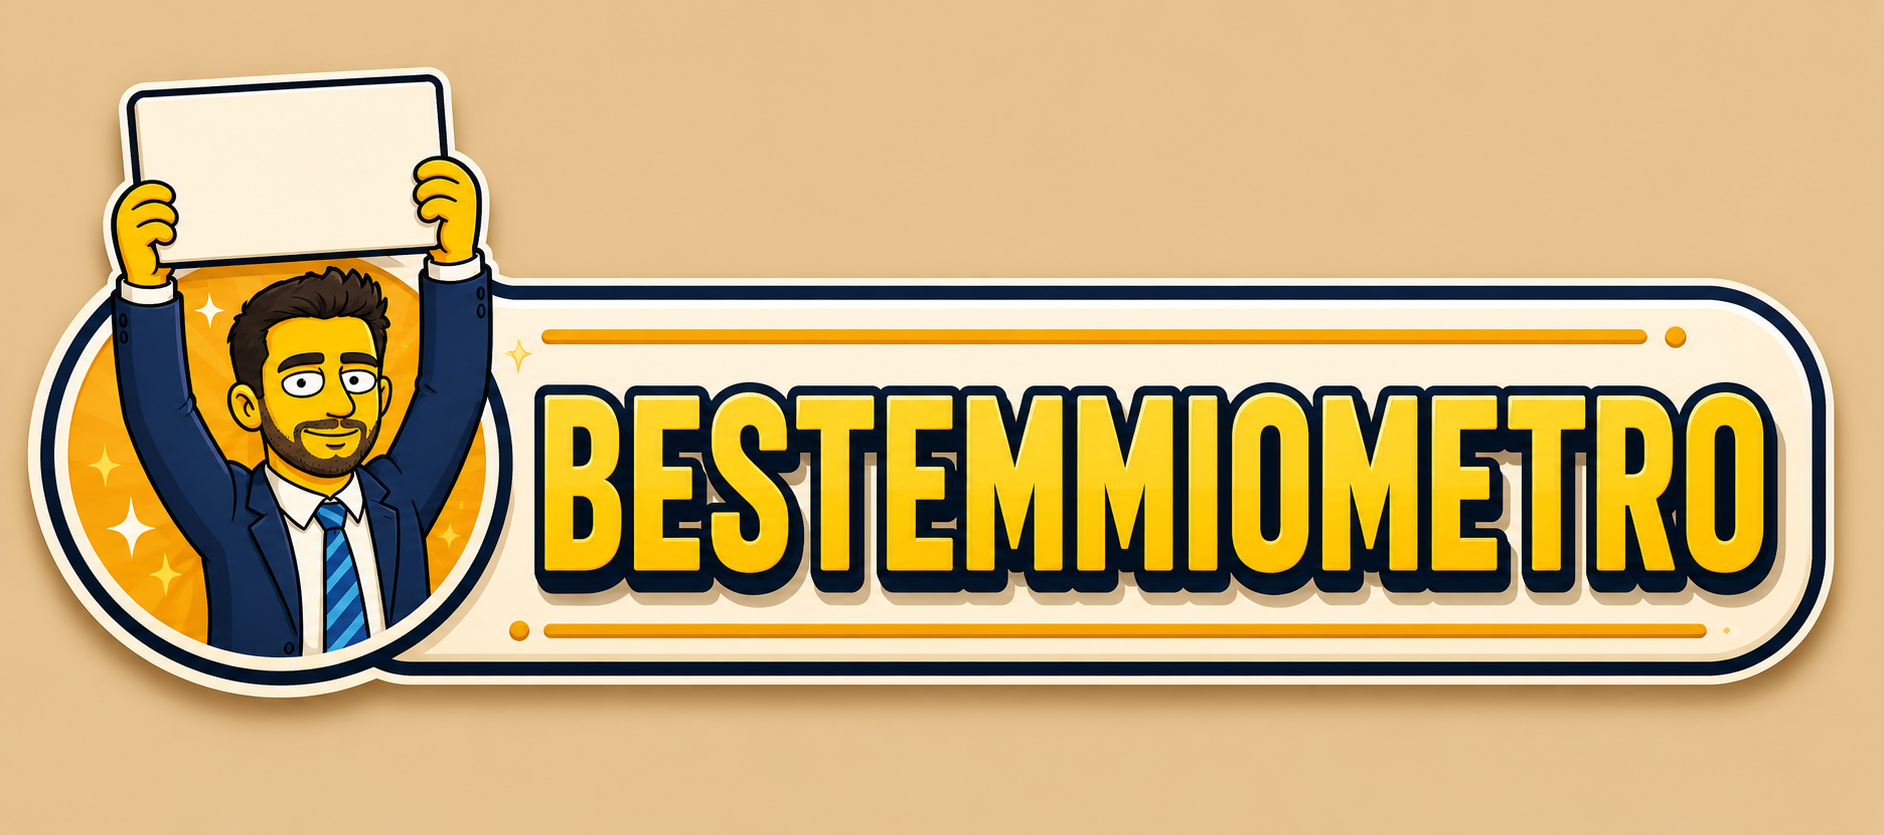
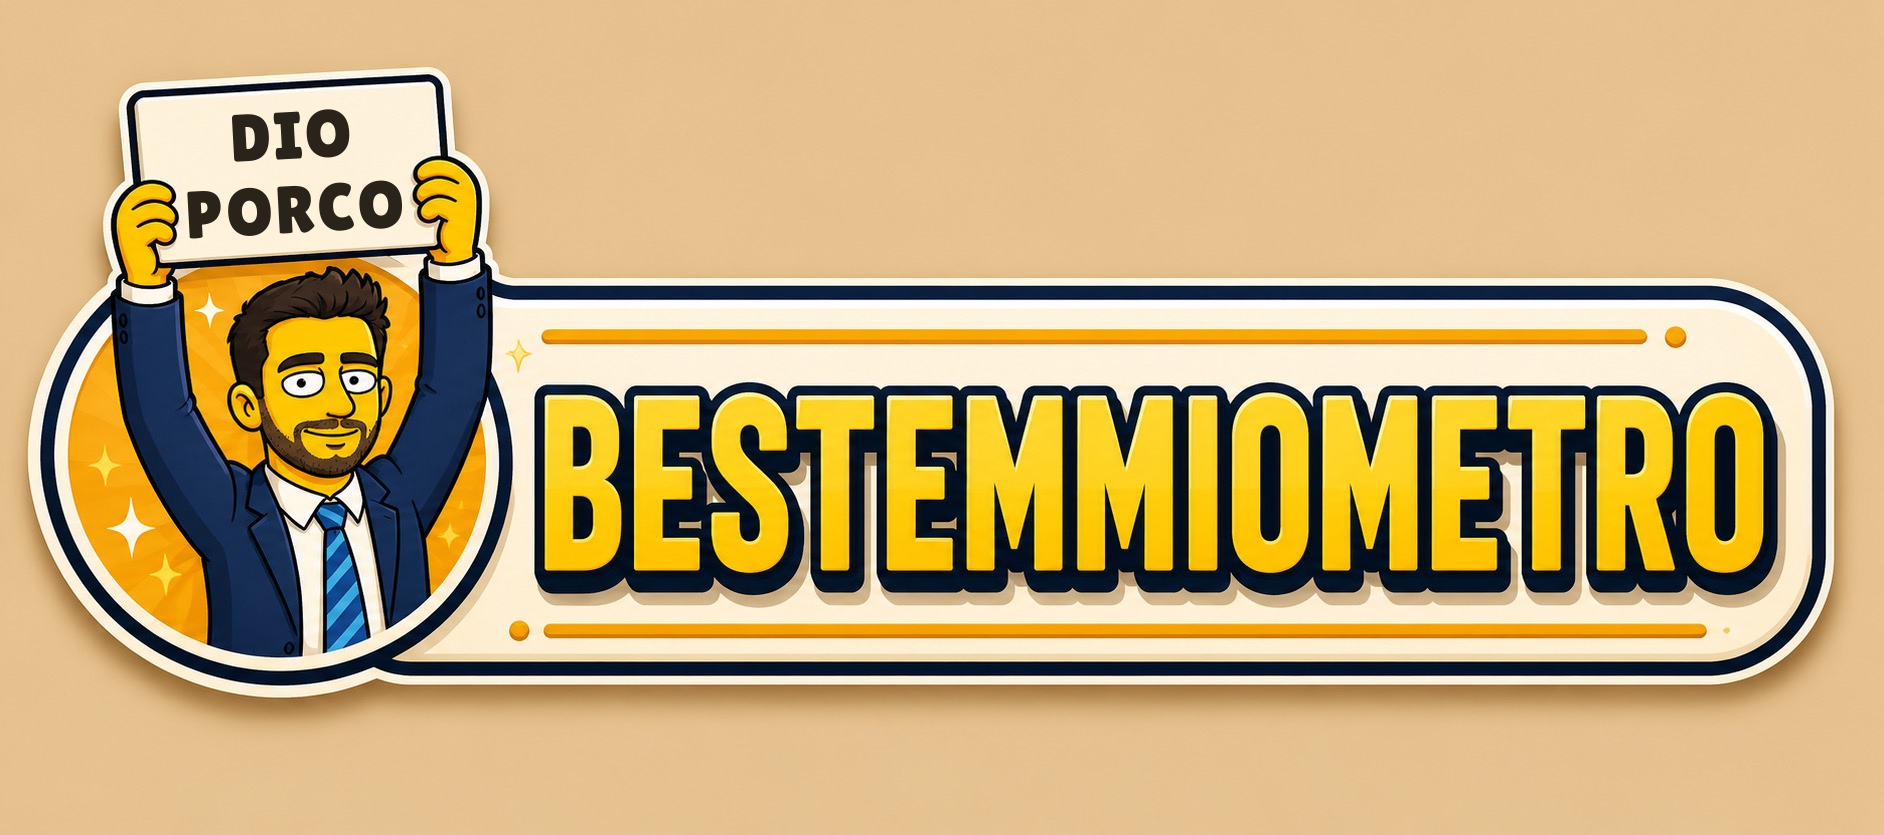
Fix App JSX and add PM section

diff --git a/src/App.css b/src/App.css
@@ -421,3 +421,131 @@ button:active {
     flex-direction: column;
   }
 }
+
+.pm-panel {
+  grid-column: 1 / -1;
+  background: linear-gradient(135deg, #fff7ed, #ffe8df);
+  border-color: #ffb4a2;
+}
+
+.pm-title {
+  color: #e76f51;
+}
+
+.pm-crown {
+  font-size: 28px;
+}
+
+.pm-form {
+  display: flex;
+  gap: 12px;
+  margin-bottom: 18px;
+}
+
+.pm-form input {
+  flex: 1;
+  border: 1px solid #ffb4a2;
+  border-radius: 999px;
+  padding: 14px 18px;
+  outline: none;
+  background: #fffdf8;
+}
+
+.pm-form input:focus {
+  border-color: #e76f51;
+  box-shadow: 0 0 0 4px rgba(231, 111, 81, 0.18);
+}
+
+.pm-form button,
+.pm-penalty-button {
+  border: 0;
+  border-radius: 999px;
+  padding: 14px 20px;
+  cursor: pointer;
+  font-weight: 900;
+  color: white;
+  background: linear-gradient(135deg, #e76f51, #c2410c);
+  box-shadow: 0 12px 24px rgba(194, 65, 12, 0.22);
+}
+
+.pm-card {
+  display: grid;
+  grid-template-columns: 1fr auto;
+  align-items: center;
+  gap: 16px;
+  padding: 18px;
+  border-radius: 22px;
+  background: rgba(255, 255, 255, 0.76);
+  border: 1px solid #ffcabd;
+  margin-bottom: 16px;
+}
+
+.pm-label {
+  margin: 0 0 6px;
+  color: #c2410c;
+  font-weight: 800;
+  text-transform: uppercase;
+  font-size: 12px;
+  letter-spacing: 0.08em;
+}
+
+.pm-card h3 {
+  margin: 0;
+  font-size: 24px;
+}
+
+.pm-card p {
+  margin: 4px 0 0;
+}
+
+.pm-score {
+  font-size: 42px;
+  color: #c2410c;
+}
+
+.pm-penalty-button {
+  width: 100%;
+  font-size: 18px;
+}
+
+.pm-penalty-button:active {
+  animation: pmShake 0.28s ease;
+}
+
+.pm-message {
+  margin: 14px 0 0;
+  padding: 12px 16px;
+  border-radius: 16px;
+  background: #fff;
+  color: #c2410c;
+  font-weight: 900;
+  animation: fadeUp 0.22s ease both;
+}
+
+@keyframes pmShake {
+  0% {
+    transform: translateX(0);
+  }
+
+  25% {
+    transform: translateX(-4px);
+  }
+
+  50% {
+    transform: translateX(4px);
+  }
+
+  75% {
+    transform: translateX(-2px);
+  }
+
+  100% {
+    transform: translateX(0);
+  }
+}
+
+@media (max-width: 820px) {
+  .pm-form {
+    flex-direction: column;
+  }
+}

diff --git a/src/App.jsx b/src/App.jsx
@@ -10,6 +10,7 @@ import {
   serverTimestamp,
   updateDoc,
   increment,
+  setDoc,
 } from 'firebase/firestore'
 import { db } from './firebase'
 import { Info, Plus, Minus, Trash2, Trophy, Users, UserPlus } from 'lucide-react'
@@ -21,6 +22,9 @@ export default function App() {
   const [showInfo, setShowInfo] = useState(false)
   const [loading, setLoading] = useState(true)
   const [error, setError] = useState('')
+  const [projectManager, setProjectManager] = useState(null)
+  const [pmName, setPmName] = useState('')
+  const [pmMessage, setPmMessage] = useState('')
 
   useEffect(() => {
     const q = query(collection(db, 'players'), orderBy('createdAt', 'asc'))
@@ -40,6 +44,34 @@ export default function App() {
         console.error('Errore Firestore:', error)
         setError(error.message)
         setLoading(false)
+      }
+    )
+
+    return () => unsubscribe()
+  }, [])
+
+  useEffect(() => {
+    const pmRef = doc(db, 'projectManager', 'main')
+
+    const unsubscribe = onSnapshot(
+      pmRef,
+      (snapshot) => {
+        if (snapshot.exists()) {
+          const data = snapshot.data()
+
+          setProjectManager({
+            id: snapshot.id,
+            ...data,
+          })
+
+          setPmName(data.name || '')
+        } else {
+          setProjectManager(null)
+        }
+      },
+      (error) => {
+        console.error('Errore Project Manager:', error)
+        setError(error.message)
       }
     )
 
@@ -93,6 +125,55 @@ export default function App() {
     return name?.charAt(0)?.toUpperCase() || '?'
   }
 
+  async function saveProjectManager(event) {
+    event.preventDefault()
+
+    const cleanName = pmName.trim()
+    if (!cleanName) return
+
+    await setDoc(
+      doc(db, 'projectManager', 'main'),
+      {
+        name: cleanName,
+        score: projectManager?.score || 0,
+        updatedAt: serverTimestamp(),
+        createdAt: projectManager?.createdAt || serverTimestamp(),
+      },
+      { merge: true }
+    )
+  }
+
+  async function addProjectManagerPenalty() {
+    const phrases = [
+      'Planning troppo ottimistico.',
+      'Scope creep detected.',
+      'Retrospettiva inevitabile.',
+      'Il PM ha sottovalutato la complessità.',
+      'Stakeholder management da rivedere.',
+    ]
+
+    if (!projectManager) {
+      await setDoc(doc(db, 'projectManager', 'main'), {
+        name: pmName.trim() || 'Project Manager',
+        score: 1,
+        createdAt: serverTimestamp(),
+        updatedAt: serverTimestamp(),
+      })
+    } else {
+      await updateDoc(doc(db, 'projectManager', 'main'), {
+        score: increment(1),
+        updatedAt: serverTimestamp(),
+      })
+    }
+
+    const randomPhrase = phrases[Math.floor(Math.random() * phrases.length)]
+    setPmMessage(randomPhrase)
+
+    setTimeout(() => {
+      setPmMessage('')
+    }, 2500)
+  }
+
   return (
     <main className="app">
       <header className="hero">
@@ -143,7 +224,7 @@ export default function App() {
 
                     <div>
                       <h3>{player.name}</h3>
-                      <p>{player.score || 0} penitenze</p>
+                      <p>{player.score || 0} bestemmie</p>
                     </div>
                   </div>
 
@@ -194,6 +275,40 @@ export default function App() {
             </div>
           )}
         </section>
+
+        <section className="panel pm-panel">
+          <div className="panel-title pm-title">
+            <span className="pm-crown">👑</span>
+            <h2>Project Manager</h2>
+          </div>
+
+          <form onSubmit={saveProjectManager} className="pm-form">
+            <input
+              type="text"
+              placeholder="Nome Project Manager"
+              value={pmName}
+              onChange={(event) => setPmName(event.target.value)}
+            />
+
+            <button type="submit">Salva PM</button>
+          </form>
+
+          <div className="pm-card">
+            <div>
+              <p className="pm-label">Responsabilità manageriali</p>
+              <h3>{projectManager?.name || 'Project Manager'}</h3>
+              <p>{projectManager?.score || 0} bestemmie PM</p>
+            </div>
+
+            <strong className="pm-score">{projectManager?.score || 0}</strong>
+          </div>
+
+          <button className="pm-penalty-button" onClick={addProjectManagerPenalty}>
+            🔥 Colpa del PM
+          </button>
+
+          {pmMessage && <p className="pm-message">{pmMessage}</p>}
+        </section>
       </section>
 
       {showInfo && (
@@ -202,13 +317,13 @@ export default function App() {
             <h2>Regole del gioco</h2>
             <p>
               Ogni volta che un partecipante fa arrabbiare il Project Manager,
-              riceve una penitenza.
+              riceve una bestemmia.
             </p>
             <p>
               I pulsanti + e - servono per aumentare o diminuire il punteggio.
             </p>
             <p>
-              La classifica mostra in alto chi ha accumulato più penitenze.
+              La classifica mostra in alto chi ha accumulato più bestemmie.
             </p>
             <button onClick={() => setShowInfo(false)}>Chiudi</button>
           </div>